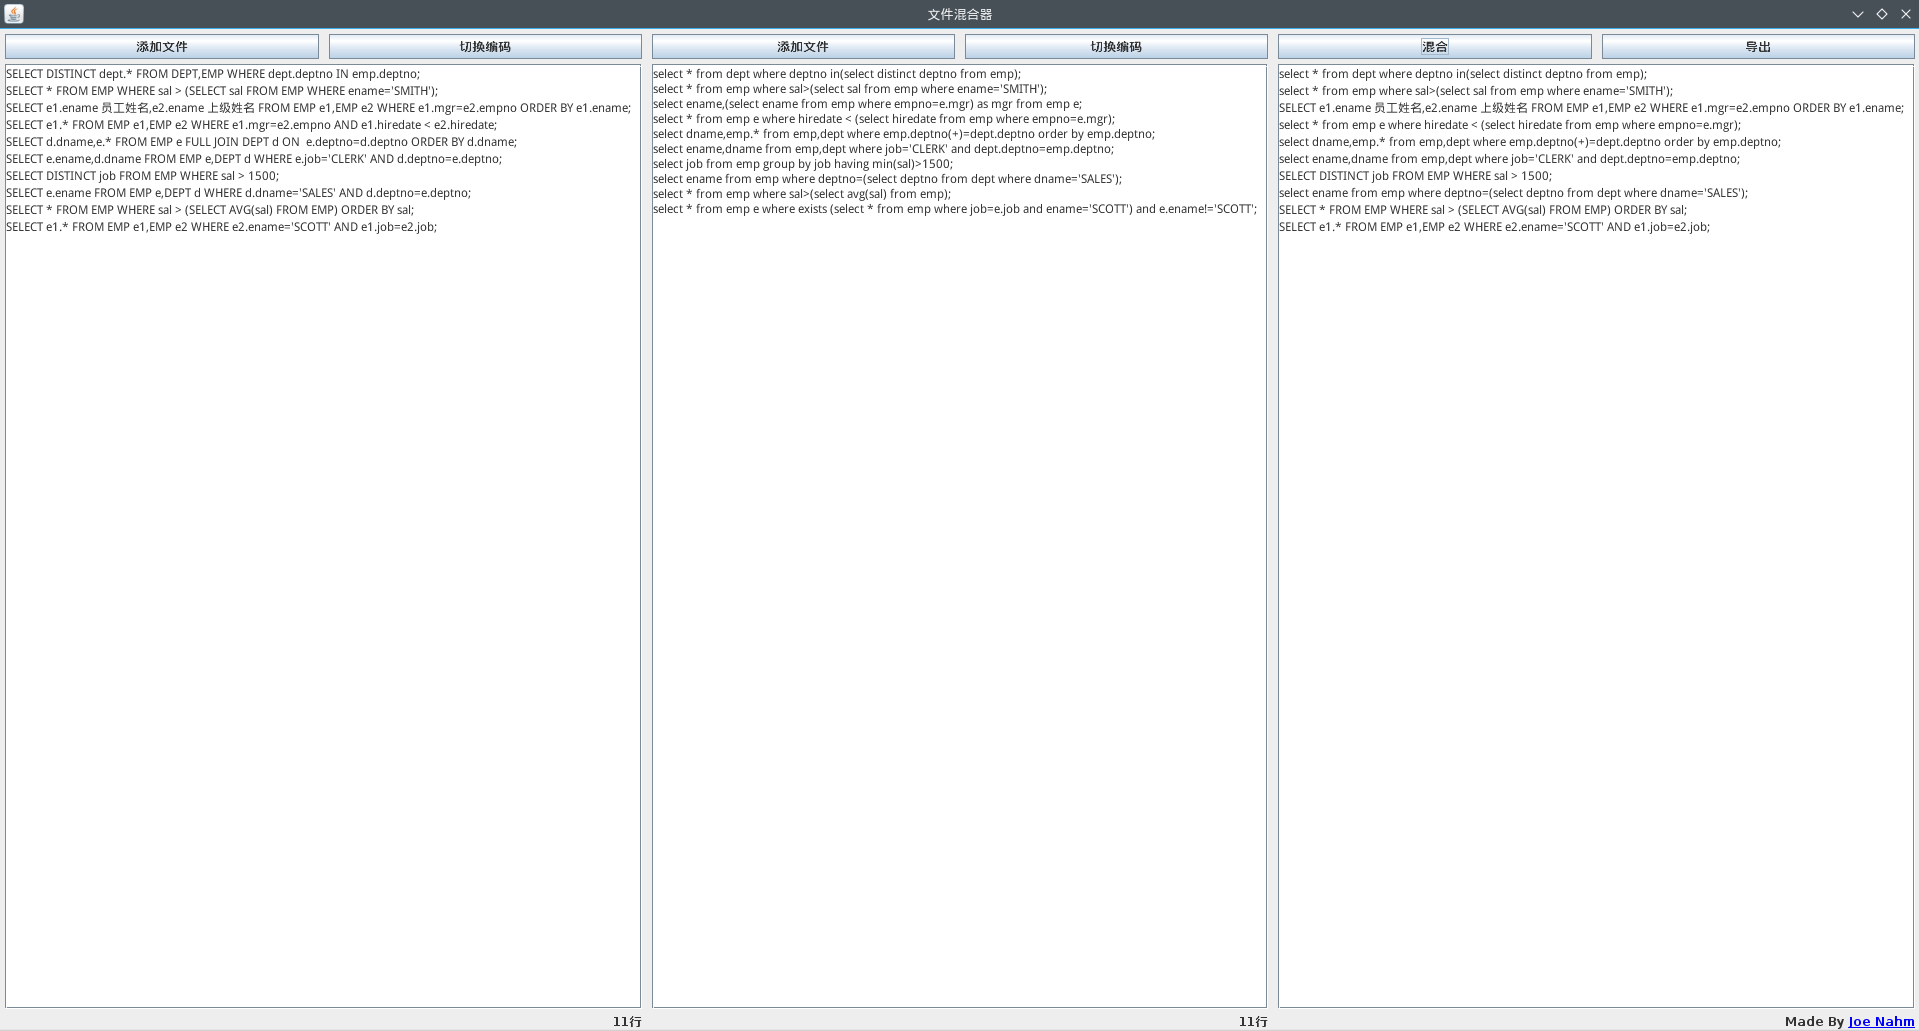
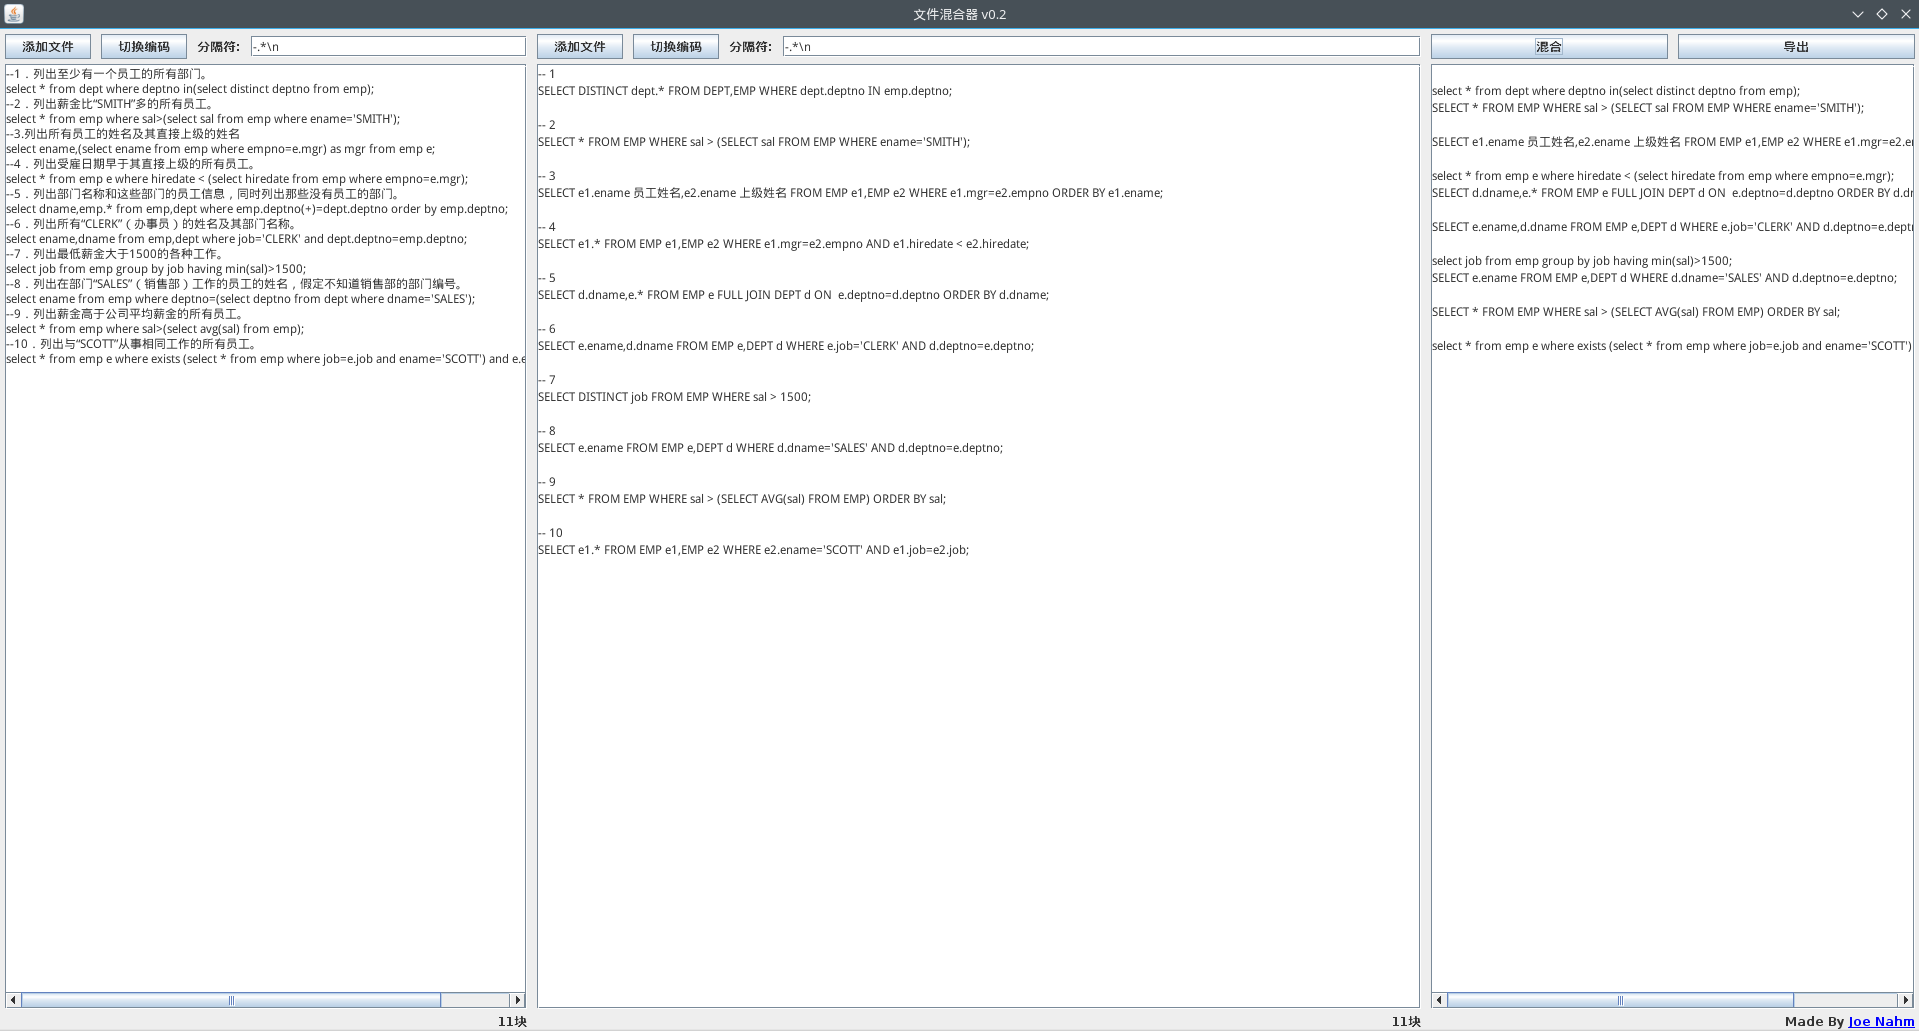
更新v0.2的说明文件

diff --git a/README.md b/README.md
@@ -1,9 +1,13 @@
 # fileBlender 文件混合器
-一个可以把两个文件以行为单位随机抽取组成新文件的小程序
+一个可以把两个文件分块，然后随机抽取组成新文件的小程序
 
 #### 下载地址
 
-[点击下载](https://github.com/joenahm/fileBlender/releases/download/v0.1/fileBlender.jar)
+[点击下载 v0.2](https://github.com/joenahm/fileBlender/releases/download/v0.2/fileBlender.jar)
+
+#### 更新
+
+v0.2版本支持自定义分隔符，且分隔符支持正则表达式
 
 #### 程序截图
 
@@ -17,6 +21,8 @@
 
 2. 如果出现乱码，就点击相应的“切换编码”。
 
-3. 点击“混合”即可随机生成混合好的内容。每点一次混合的效果都不同。
+3. 默认以回车为分隔符。你也可以自定义分隔符，而且分隔符还支持正则表达式。
 
-4. 点击“导出”即将混合结果保存成文件。
+4. 点击“混合”即可随机生成混合好的内容。每点一次混合的效果都不同。
+
+5. 点击“导出”即将混合结果保存成文件。
